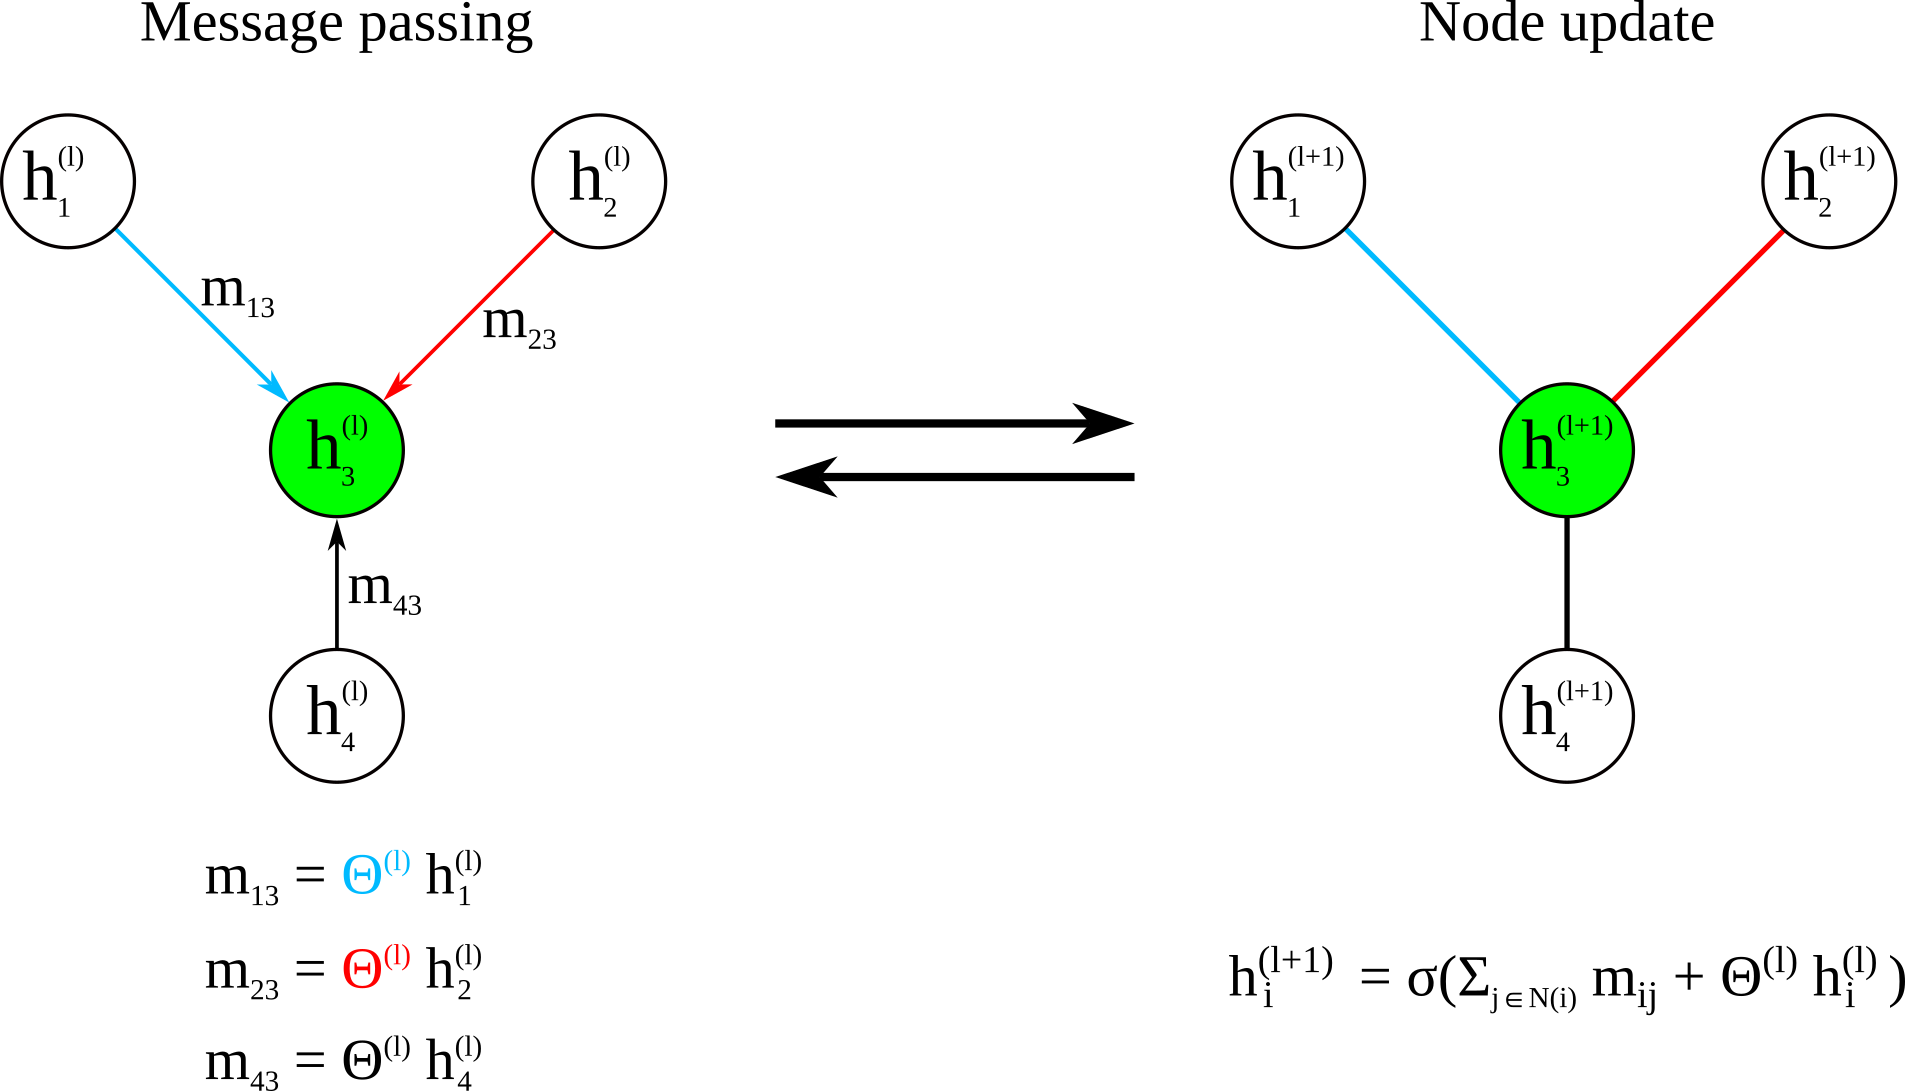
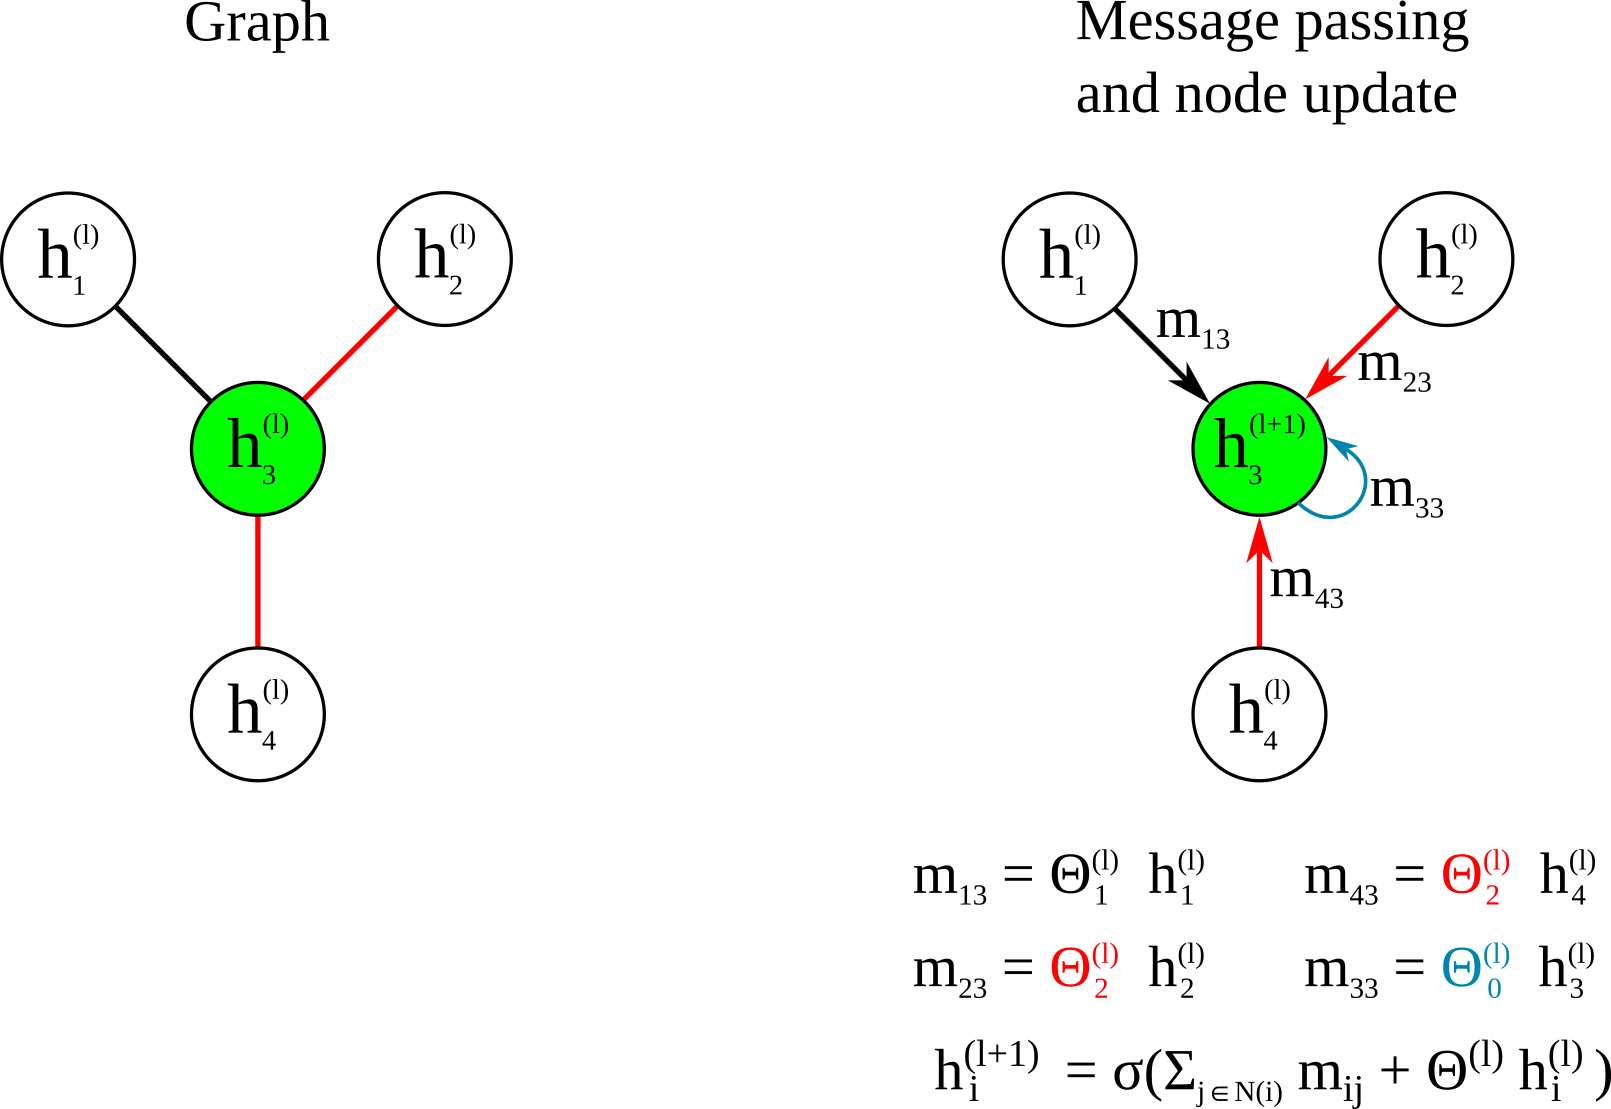
Edit MPNN figure and HN value

diff --git a/thesis/content/chapters/introduction.tex b/thesis/content/chapters/introduction.tex
@@ -165,7 +165,7 @@ functions are listed in \cref{tab:activation_functions}.
 					                                       x \, \Phi(x) & \text{otherwise}
 				                                       \end{cases}$
 			\\
-			with $\gamma = 1.05070098$ and $\alpha = 1.67326324$ & with $\Phi(x)$ cumulative standard normal distribution \\
+            see \citen{klambauer2017self} for values of $\alpha$ and $\lambda$ & with $\Phi(x)$ cumulative standard normal distribution \\
 			\bottomrule
 		\end{tabular}
 	\end{center}
@@ -343,8 +343,10 @@ is used preserve information of previous layers.
     \centering 
     \includegraphics{"rgcn.png"}
     \caption{A relational graph neural network sends messages based on the edge 
-    types. Subsequently, the messages are aggregated using a sum. Next, another 
-    message passing step can be performed, which is again followed by a node update.}
+    types which are denoted by different edge colors, black and red. Each edge 
+    type use a different weight matrix $\Theta_r$ with $r$ equal to $1$ for the black 
+    edge type and $2$ for the red edge type. Also a self loop is added which uses 
+    the weight matrix $\Theta_0$.}
     \label{fig:rgcn}
 \end{figure}
 
@@ -366,7 +368,7 @@ and a characteristic function (i.e. ML model) which satisfies\cite{zhang2022gsta
 
 
 \begin{equation}
-	v: 2^N \coloneqq \{S | S \subseteq N\} \rightarrow \mathbb{R}, \quad v\left(\emptyset\right) = 0.
+	v: 2^N \rightarrow \mathbb{R}, \quad v\left(\emptyset\right) = 0.
 \end{equation}
 
 
@@ -397,29 +399,35 @@ following axioms:\cite{merrick2020explanation, shapley1953value}
 \end{itemize}
 
 
-The Shapley value $\phi_i$ of player $i$ is given by the expected marginal contribution\cite{zhang2022gstarx}
+Before defining the Shapley value, the concept of marginal contribution $m(i, S)$ is 
+introduced. The marginal contribution of player $i$ and coalition $S \subseteq N$ is defined as the 
+difference between the payoff obtained when player $i$ cooperates with the coalition 
+$S$ and the payoff generated by the coalition $S$ itself\cite{shapley1953value}
 
 
 \begin{equation}
-	m(i) = v\left(S \cup \{i\}\right) - v\left(S\right), \; \text{with } S \subseteq N \setminus \{i\}
+	m(i, S) = v\left(S \cup \{i\}\right) - v\left(S\right), \; \text{with } S \subseteq N \setminus \{i\}.
 \end{equation}
 
 
-over all possible player permutations
+The Shapley value $\phi_i$ can then be expressed as the expected marginal 
+contribution of player $i$ when players are added to a coalition in a 
+random order. Let $\pi$ represent a permutation specifying the order 
+of players added to a coalition and let $S_{\pi, i}$ represent the set of players 
+added to the coalition prior to i. Then the Shapley value is\cite{merrick2020explanation} 
 
 
 \begin{equation}
-	\begin{aligned}
-		\label{eq:Shapley}
-		\phi_i(N, v) & = \frac{1}{|N|} \sum_{k=0}^{|N|-1} \frac{\left(|N| - 1 - k\right)! k!}{\left(|N| - 1\right)!} \sum_{S \subseteq N \setminus \{i\}, |S| = k} m(i) \\
-		             & = \sum_{k=0}^{|N| - 1} \sum_{S \subseteq N \setminus \{i\}, |S| = k} \frac{\left(|N| - 1 - |S|\right)!|S|!}{|N|!} m(i)                          \\
-		             & = \sum_{S \subseteq N \setminus \{i\}} \frac{\left(|N| - 1 - |S|\right)!|S|!}{|N|!} m(i)
-	\end{aligned}
+    \label{eq:Shapley}
+    \phi_i = \underset{\pi}{\mathbb{E}} \left[ m\left(i, S_{\pi, i} \right) \right]
+	= \sum_{S \subseteq N \setminus \{i\}} \frac{\left(|N| - 1 - |S|\right)!|S|!}{|N|!} m(i, S)
 \end{equation}
 
 
-assuming that every permutation is equally probable. This last assumption can be questioned whether it should
-always hold. For instance, define an unanimity game as a game $(N, u_R)$ with characteristic function
+
+The Shapley value assumes that each permutation is equally probable. 
+This assumption can be questioned whether it should always hold. For instance, 
+define an unanimity game as a game $(N, u_R)$ with characteristic function
 
 
 \begin{equation}
@@ -436,14 +444,16 @@ Since the Shapley value does not account for any communication structure, the Sh
 $1/3$ for all players. However, it would be more intuitive if player two had a higher value, as it can
 communicate to more players than players one and three. Because it is possible to represent chemical
 structures as graphs, it could be interesting to include the graphical structure in the explanation. A
-value that does include a communication structure is the Hamiache-Navarro value.\cite{hamiache_value_1999, hamiache_associated_2020}
+value that does include a communication structure is the Hamiache-Navarro value.
+First, however, the Myerson value is discussed for a more complete review of the literature.
+\cite{hamiache_value_1999, hamiache_associated_2020}
 
 
-\subsection{Hamiache-Navarro value}
+\subsection{Myerson value}
 
 
-During the discussion of the HN value, an example will be used to illustrate 
-the concepts of the HN value and to make a comparison with the Shapley value. 
+During the discussion of the following values, an example will be used to illustrate 
+the concepts and to make a comparison with the Shapley value. 
 The example game is an unanimity game $(N, v_N, g)$ (\cref{fig:shapley_hn_example}) 
 with three players $N = \{1, 2, 3\}$ and a communication structure $g = \{\{1, 2\}, \{2, 3\}\}$ 
 defined as a set of adjacent players.\cite{hamiache_associated_2020} Communication 
@@ -464,13 +474,69 @@ Players one and three are connected by the sequence 1, 2, 3.\cite{hamiache_value
 \end{figure}
 
 
-A coalition $S \subseteq N$ can only directly interact with its connected neighbors 
-$\mathcal{N}(S) \coloneqq \{ j \in N \setminus S | \exists i \in S \text{ such that } \{i, j\} \in g \}$. 
-Therefore, player one can only interact directly with player two and not with player three
+One approach of adapting the Shapley value to incorporate the graphical 
+structure is by using the communication graph $g$ to create a partition 
+$S/g \coloneqq \{\{ i \in S| i \rightarrow j\} | j \in S\}$ of a coalition 
+$S$. This partition is subsequently used to transform the game with 
+communication structure $(N, v, g)$ to a game without communication structure 
+$(N, v/g)$ where the value is given by the sum of the values $v$ for each component\cite{hamiache_value_1999}
+
+
+\begin{equation}
+    (v/g)(S) = \sum_{R, R \in S/g} v(R). 
+\end{equation}
+
+
+The solution $\psi$, known as the Myerson value, is then given by the Shapley value of the 
+transformed game\cite{hamiache_value_1999} 
+
+
+\begin{equation}
+    \psi(N, v, g) = \phi(N, v/g)
+\end{equation}
+
+
+However, the Myerson value is based on a questionable axiom, which states that 
+when the edge between players $i$ and $j$ is broken, then the difference between 
+the old value and the new value must be the same for both players 
+
+
+\begin{equation}
+    \psi_i(N, v, g) - \psi_i(N, v, g \setminus \{i, j\}) = \psi_j(N, v, g) - \psi_j(N, v, g \setminus \{i, j\}).
+\end{equation}
+
+
+This reasoning does not hold in a chemical concept as the presence and absence 
+of a chemical bond has an influence on the overall electronic structure 
+of the molecule, which determines the molecular properties.\cite{atkins2011molecular} 
+Another criticism is that the Myerson value satisfies the equal treatment 
+property for unanimity games $(N, u_R, g)$\cite{hamiache_value_1999}
+
+
+\begin{equation}
+    \psi_i(N, u_R, g) = \begin{cases}
+        \frac{1}{|R|} & \text{ if } i \in R \\
+        0 & \text{ else }
+    \end{cases}.
+\end{equation}
+
+
+So the Myerson values for the example game is also $1/3$ for each player just 
+like the Shapley value.
+
+
+\subsection{Hamiache-Navarro value}
+
+
+The Hamiache-Navarro value is based on the concept of an associated game.
+Since a communication structure limits player communication, a coalition 
+$S \subseteq N$ can only directly interact with its connected neighbors 
+$\mathcal{N}(S) \coloneqq \{ j \in N \setminus S | \exists i \in S \text{ such that } \{i, j\} \in g \}$
+and the connections between the neighbors are of no importance as they are not 
+visible form the perspective of coalition $S$. 
+For example, player one can only interact directly with player two and not with player three
 in the example game.
-The interconnection of the neighbors of $S$ is of no importance as the coalition 
-$S$ cannot see them. Therefore, the coalition $S$ can value its
-own payoff $v^*(S)$ as its payoff $v(S)$ in the original game and a fraction 
+Then, a coalition $S$ can value its own payoff $v^*(S)$ as its payoff $v(S)$ in the original game and a fraction 
 $\tau$ of the net payoff obtained by cooperating with each of its connected 
 neighbors separately \cref{eq:associated_game}.\cite{hamiache2001associated}
 This results in a series of associated games $(N, v^*, g), (N, v^{**}, g), \dots$, 

diff --git a/thesis/thesis.tex b/thesis/thesis.tex
@@ -48,6 +48,14 @@
 \usepackage{mathptmx}
 \usepackage{cleveref}
 
+\newcommand*{\citen}[1]{%
+  \begingroup
+    \romannumeral-`\x % remove space at the beginning of \setcitestyle
+    \setcitestyle{numbers}%
+    \cite{#1}%
+  \endgroup   
+}
+
 % ---- ADDITIONAL SETTINGS
 \graphicspath{{Fig/}} % path to the figure directory
 % \setcitestyle{numbers}
